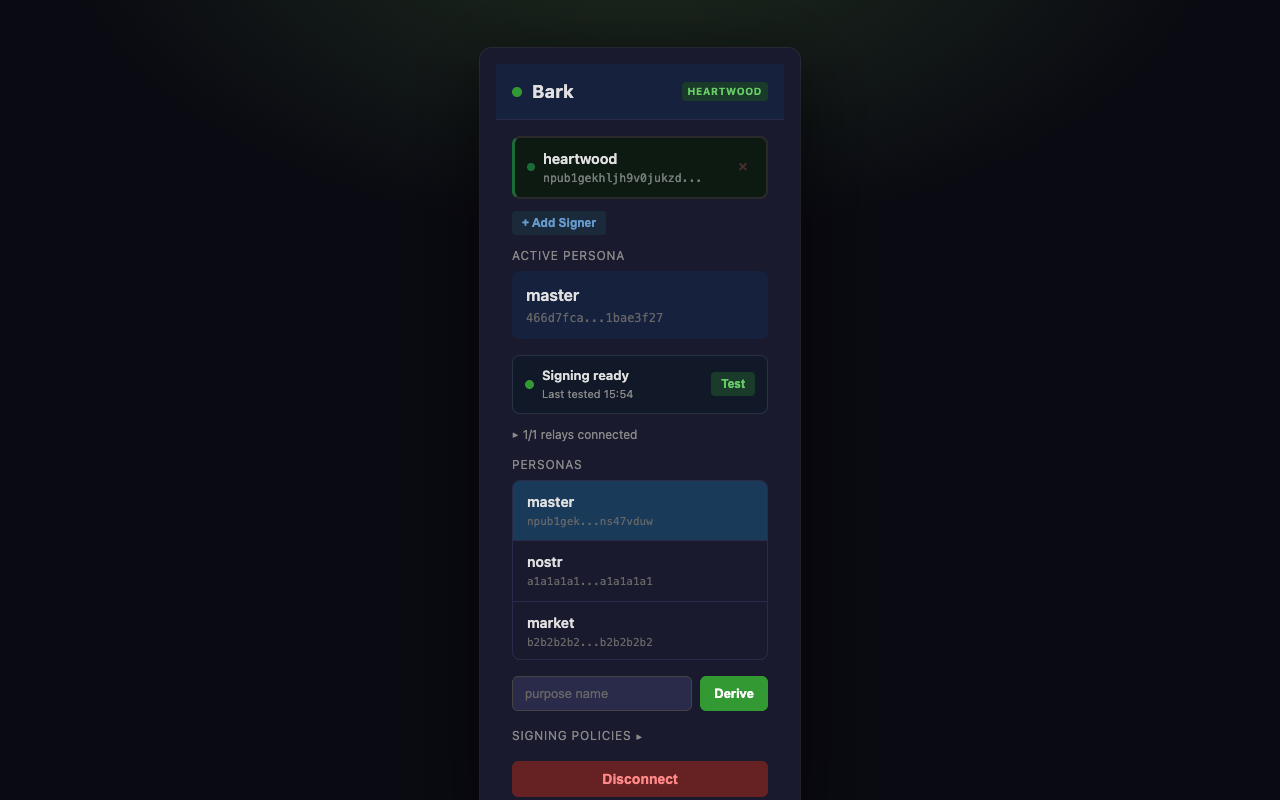
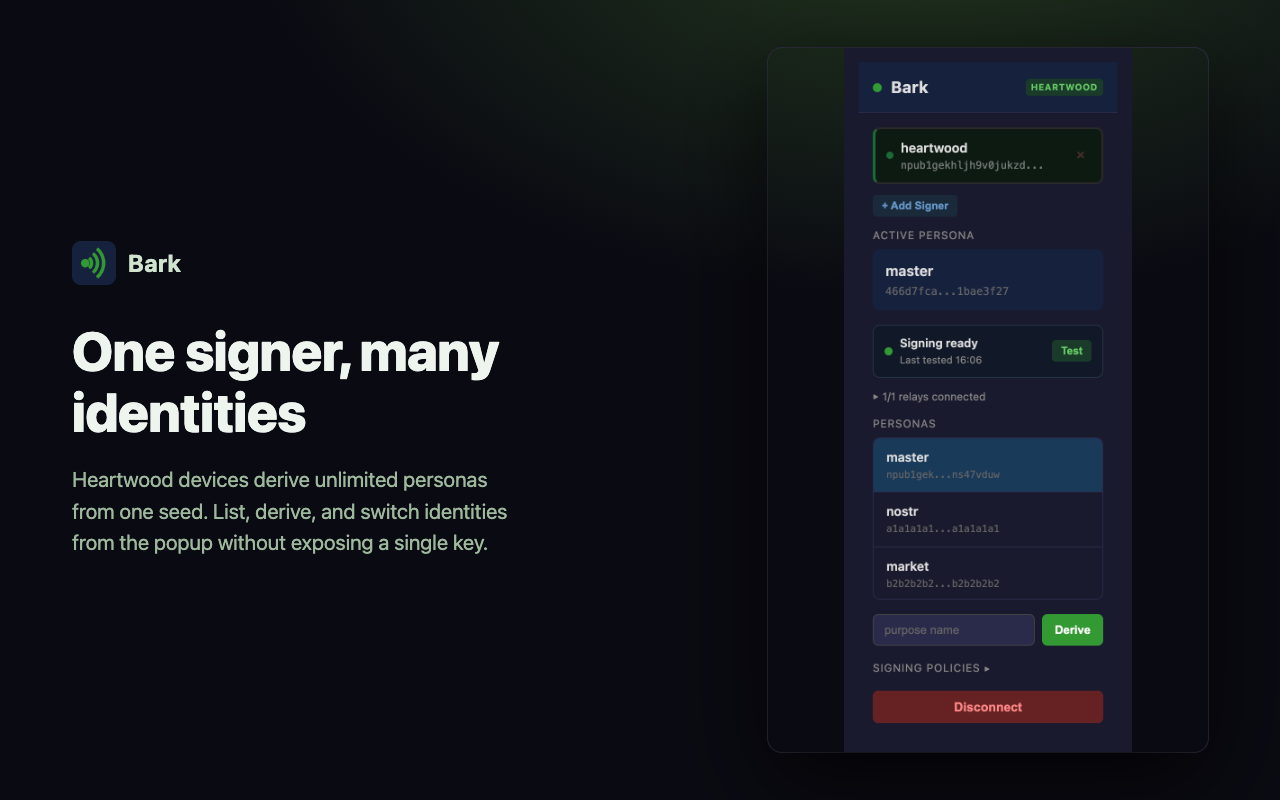
docs: captioned store screenshots at 2x, marquee and promo tiles

diff --git a/docs/store-listing.md b/docs/store-listing.md
@@ -101,13 +101,15 @@ Both former gaps are closed as of v1.2.0:
 
 ## Assets checklist
 
-- [x] Screenshots (1280×800) in `docs/store-assets/` — regenerate with
-      `npm run build && node scripts/store-screenshots.mjs`
-- [x] CWS allows **max 5 screenshots** — upload these, in this order:
-      `03-connected`, `06-approval`, `04-policies`, `02-qr-pairing`,
-      `05-personas`. Omit `01-setup` (a subset of `02-qr-pairing`).
-      AMO allows up to 10 — upload all six there.
-- [x] CWS promo tile 440×280 (`docs/store-assets/promo-tile-440x280.png`)
+- [x] Five captioned screenshots (1280×800) in `docs/store-assets/` —
+      regenerate with `npm run build && node scripts/store-screenshots.mjs`.
+      Each pairs a 2x UI capture with a headline explaining the feature.
+      Upload in numbered order on both stores: `01-connected`,
+      `02-approval`, `03-policies`, `04-qr-pairing`, `05-personas`.
+- [x] CWS promo tile 440×280 (`docs/store-assets/promo-tile-440x280.jpg`,
+      JPEG — the store rejects PNGs with an alpha channel)
+- [x] CWS marquee promo tile 1400×560
+      (`docs/store-assets/marquee-promo-1400x560.jpg`)
 - [x] CWS store icon (`docs/store-assets/store-icon-128.png`) — 96×96
       artwork centred on a transparent 128×128 canvas per Google's image
       guidelines; the raw `src/icons/bark-128.png` is full-bleed and will